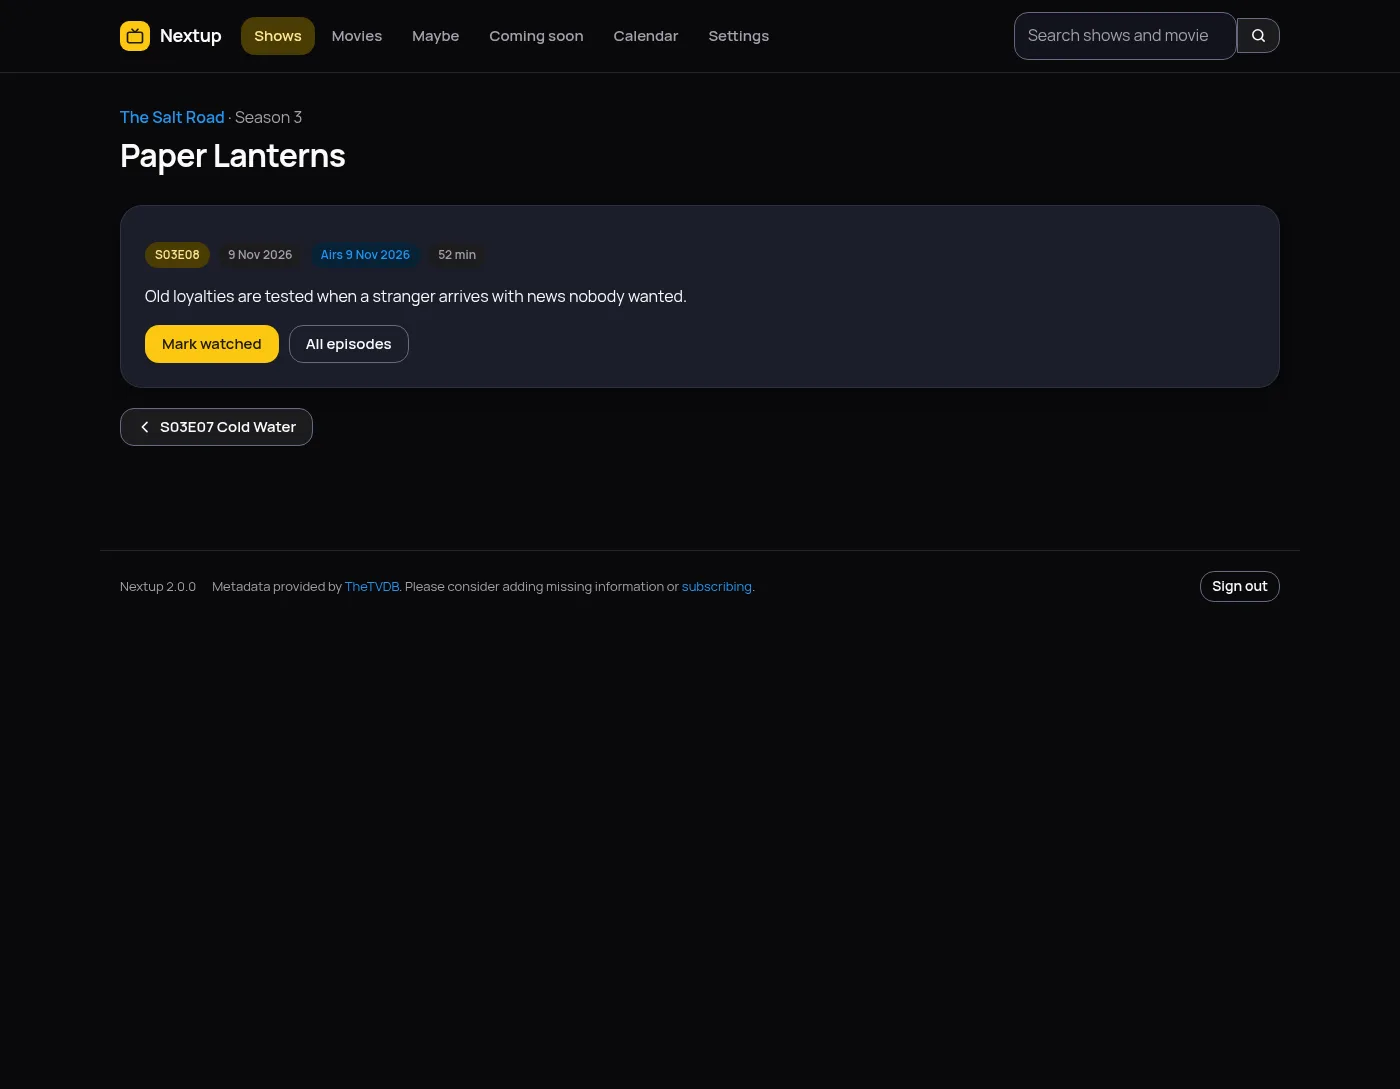
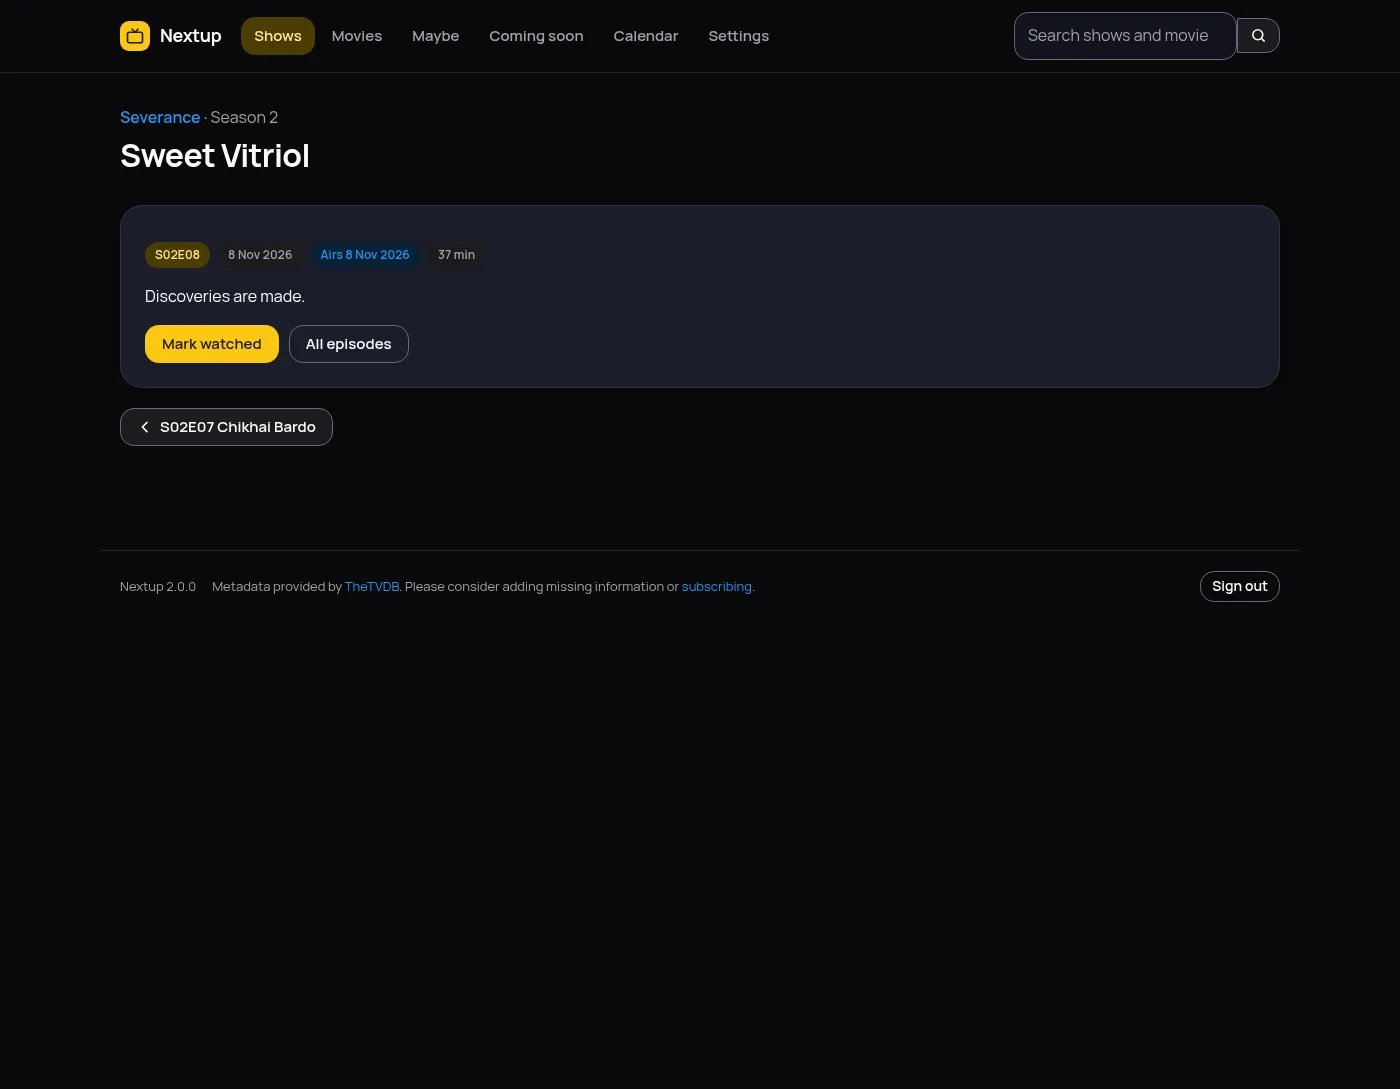
Testing build 2.0.0: Screenshots use real shows with real episode titles; the email picture is trimmed to its content

Changed region(s): [[0.0921, 0.2185, 0.4914, 0.281], [0.0921, 0.0937, 0.2457, 0.1561], [0.1536, 0.3747, 0.2457, 0.4059]]

diff --git a/docs/index.html b/docs/index.html
@@ -178,7 +178,7 @@
         <div class="shot">
           <img src="images/nextup-email.webp"
                alt="The Nextup morning email, headed Ready to watch, showing an episode with its cover and a short description."
-               width="760" height="900" loading="lazy" decoding="async">
+               width="680" height="1099" loading="lazy" decoding="async">
         </div>
       </figure>
     </div>
@@ -191,7 +191,7 @@
       <figure>
         <div class="shot">
           <img src="images/nextup-show.webp"
-               alt="The Salt Road page in Nextup, with the poster, a progress bar, buttons to move it to maybe, archive or remove it, the cast, a details panel, and the latest season's episodes listed below."
+               alt="The Severance page in Nextup, with the poster, a progress bar, buttons to move it to maybe, archive or remove it, the cast, a details panel, and the latest season's episodes listed below."
                width="1400" height="1283" loading="lazy" decoding="async">
         </div>
       </figure>
